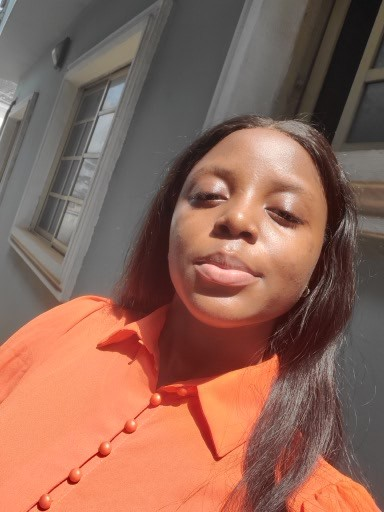
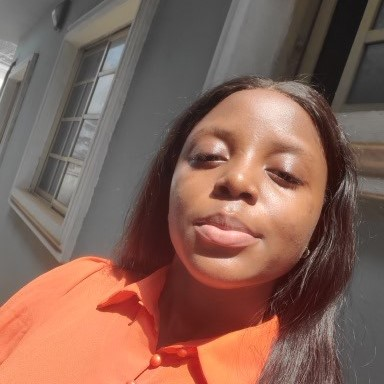
fixed skills motion and about picture

diff --git a/src/components/Skills.tsx b/src/components/Skills.tsx
@@ -5,29 +5,29 @@ import typescript from "../assets/typescript.png";
 import nextjs from "../assets/next js.png";
 import tailwind from "../assets/tailwind.png";
 import react from "../assets/react.png";
-import {motion} from 'framer-motion'
+import { motion } from "framer-motion";
 
 const Skills = () => {
   return (
-    <div className="relative w-full overflow-hidden whitespace-nowrap">
+    <div className="flex overflow-hidden mt-12 [mask-image:linear-gradient(to_right,transparent,black_10%,black_90%,transparent)]">
       <motion.div
-        className="flex space-x-6"
-        animate={{ x: ["0%", "-100%"] }}
-        transition={{
-          repeat: Infinity,
-          duration: 10,
-          ease: "linear",
+        className="flex flex-none gap-24 max-sm:gap-10 pr-10"
+        animate={{
+          x: "-50%",
         }}
+        transition={{duration:20, ease: "linear", repeat: Infinity}}
       >
-        {skills.map((skill, index) => (
+        {Array.from({length: 2}).map((_,i) => (
+        skills.map((skill, index) => (
           <div
-            key={skill.name}
-            className="items-center "
+          key={`${i}-${index}`}
+            className="items-center flex flex-col justify-center pr-10"
           >
-            <img src={skill.img} alt={`Image ${index}`} className="w-24 h-24 " />
+            <img src={skill.img} alt={`Image ${index}`} className="h-24" />
             <h2>{skill.name}</h2>
           </div>
-        ))}
+        ))
+       ))}
       </motion.div>
     </div>
   );

diff --git a/src/components/About.tsx b/src/components/About.tsx
@@ -8,7 +8,7 @@ const About = () => {
     <div id="about">
       <section>
         <div className="gap-10 p-5 m-10 ju:stify-between md:flex md:flex-col lg:flex-row">
-          <img src={aboutImg} alt="my Image" className="rounded-[50%]" />
+          <img src={aboutImg} alt="my Image" height={50} className="rounded-full my-14" />
           <div className="font-[poppins] md:text-2xl md:mt-24">
             <h1 className="p-2 my-3 text-2xl font-bold">About Me</h1>
             <p>Front-end Developer</p>
